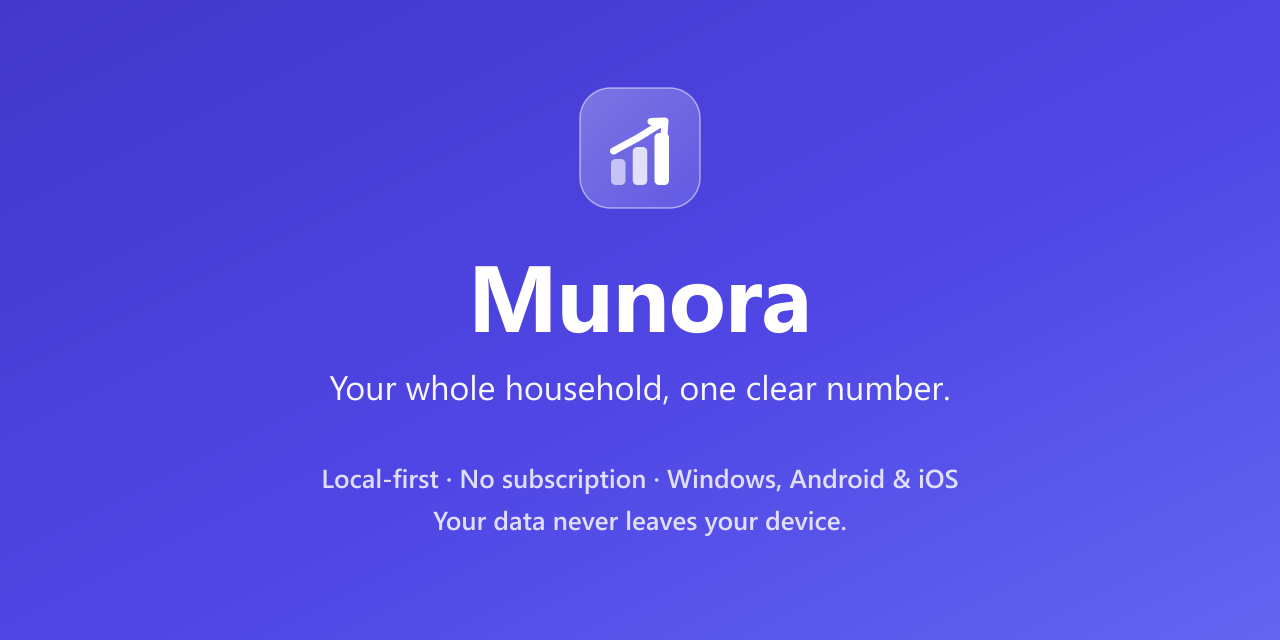
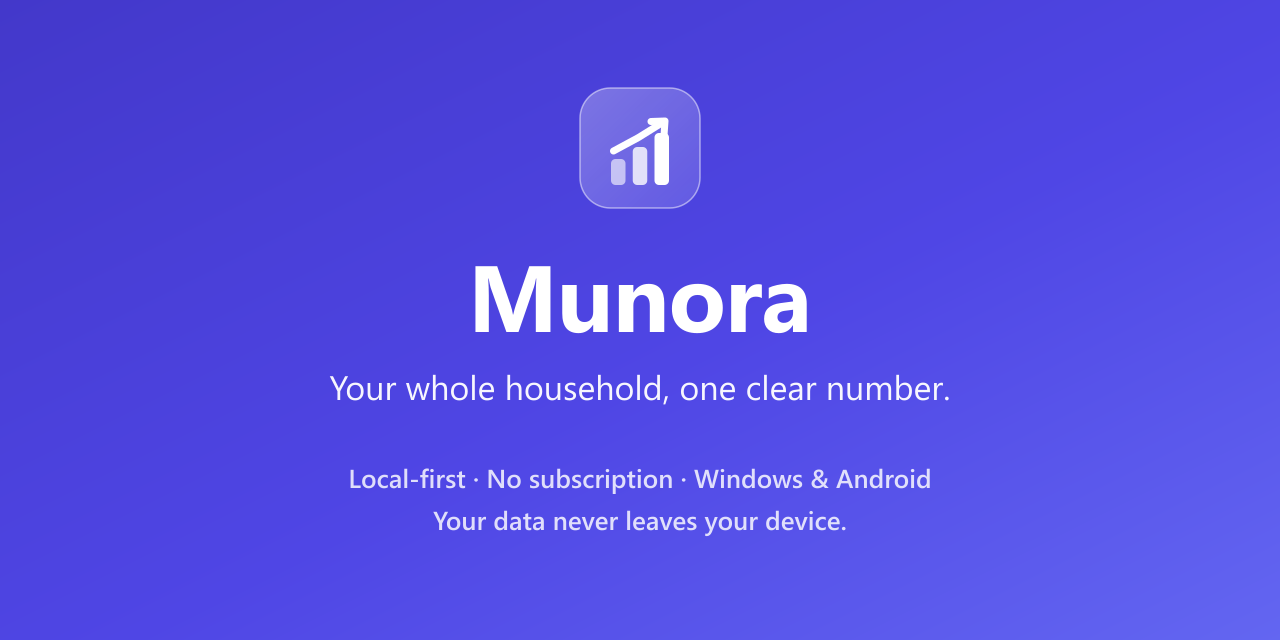
Remove iOS as an advertised platform (not shippable yet)
iOS can only be built on a Mac, and no iOS build ships today, so drop it from the
README, MOBILE.md, the social-preview card, the About blurb and the release notes,
plus the Capacitor build scaffolding (cap:ios script + @capacitor/ios dep).
capacitor.config.ts stays platform-neutral, so iOS can be re-added with a single
`cap add ios` if a Mac build is ever produced.

Changed region(s): [[0.25, 0.7188, 0.75, 0.7812]]

diff --git a/app/src/lib/storage.ts b/app/src/lib/storage.ts
@@ -74,7 +74,7 @@ function isCapacitorNative(): boolean {
 }
 
 export function getStorage(): StorageAdapter {
-  // Mobile (Android / iOS via Capacitor): a single JSON file in app storage.
+  // Mobile (Android via Capacitor): a single JSON file in app storage.
   if (isCapacitorNative()) {
     return {
       kind: 'capacitor',

diff --git a/MOBILE.md b/MOBILE.md
@@ -1,8 +1,8 @@
-# Munora on Android & iOS
+# Munora on Android
 
 Munora ships as one codebase (`app/`) that runs as a Windows desktop app
-(Electron) and as native Android/iOS apps (Capacitor). The same React UI runs in
-all of them; only the storage and HTTP layers differ, and both are handled
+(Electron) and as a native Android app (Capacitor). The same React UI runs in
+both; only the storage and HTTP layers differ, and both are handled
 automatically.
 
 ## What "100% local" means here
@@ -22,8 +22,6 @@ automatically.
 
 - Node 20+ and the repo installed: `cd app && npm install`
 - Android: Android Studio (SDK + platform tools) and a JDK 17+.
-- iOS: a Mac with Xcode and CocoaPods (`sudo gem install cocoapods`). iOS cannot
-  be built on Windows or Linux.
 
 ## Android
 
@@ -50,33 +48,20 @@ Release build (signed): create a keystore, set signing in
 `android/app/build.gradle`, then `./gradlew assembleRelease` (APK) or
 `bundleRelease` (AAB for the Play Store).
 
-## iOS (on a Mac)
-
-```bash
-cd app
-npm i            # ensure deps
-npx cap add ios  # one time, creates app/ios (Mac only)
-npm run mobile:assets   # optional: brand the icon/splash
-npm run cap:ios         # builds, syncs, opens Xcode
-```
-
-In Xcode select a team under Signing & Capabilities, pick a device/simulator, and
-Run. Archive from Product, Archive for TestFlight/App Store.
-
 ## Updating the app after code changes
 
 ```bash
-npm run cap:sync     # rebuild web + copy into android/ and ios/
+npm run cap:sync     # rebuild web + copy into android/
 ```
 
-Then rebuild in Android Studio / Xcode. During development you can also point the
+Then rebuild in Android Studio. During development you can also point the
 native app at the Vite dev server by setting `server.url` in
 `capacitor.config.ts`, but the default (bundled `dist/`) is what keeps it offline.
 
 ## Branding assets
 
-`npm run mobile:assets` regenerates Android (and iOS, on a Mac) launcher icons and
-splash screens from `build/icon.svg`. Source images land in `app/assets/`.
+`npm run mobile:assets` regenerates Android launcher icons and splash screens
+from `build/icon.svg`. Source images land in `app/assets/`.
 
 ## Changing your AI API key on mobile
 

diff --git a/README.md b/README.md
@@ -6,7 +6,7 @@
 
 **Your whole household, one clear number.**
 
-A local-first personal-finance app for Windows, Android and iOS. Your accounts,
+A local-first personal-finance app for Windows and Android. Your accounts,
 transactions, investments, loans and property in one place, and every figure stays on
 your own device. No account to create, no server that holds your data.
 
@@ -37,7 +37,6 @@ Grab the latest build from the [**Releases**](../../releases) page:
 | --- | --- | --- |
 | **Windows** | `Munora Setup <version>.exe` | Download and run the installer. |
 | **Android** | `Munora-<version>.apk` | Allow installs from your browser, then open the file. |
-| **iOS** | build from source | No App Store build; see [below](#build-from-source). |
 
 Inside the app, **Settings → Updates** checks this repository for newer releases and links
 you straight to the download. It only ever asks GitHub for the latest release number;
@@ -166,8 +165,7 @@ bring and store locally:
 
 ## Build from source
 
-Requires Node.js 20+. For Android you also need the Android SDK and JDK 21; for iOS, a
-Mac with Xcode.
+Requires Node.js 20+. For Android you also need the Android SDK and JDK 21.
 
 ```bash
 cd app
